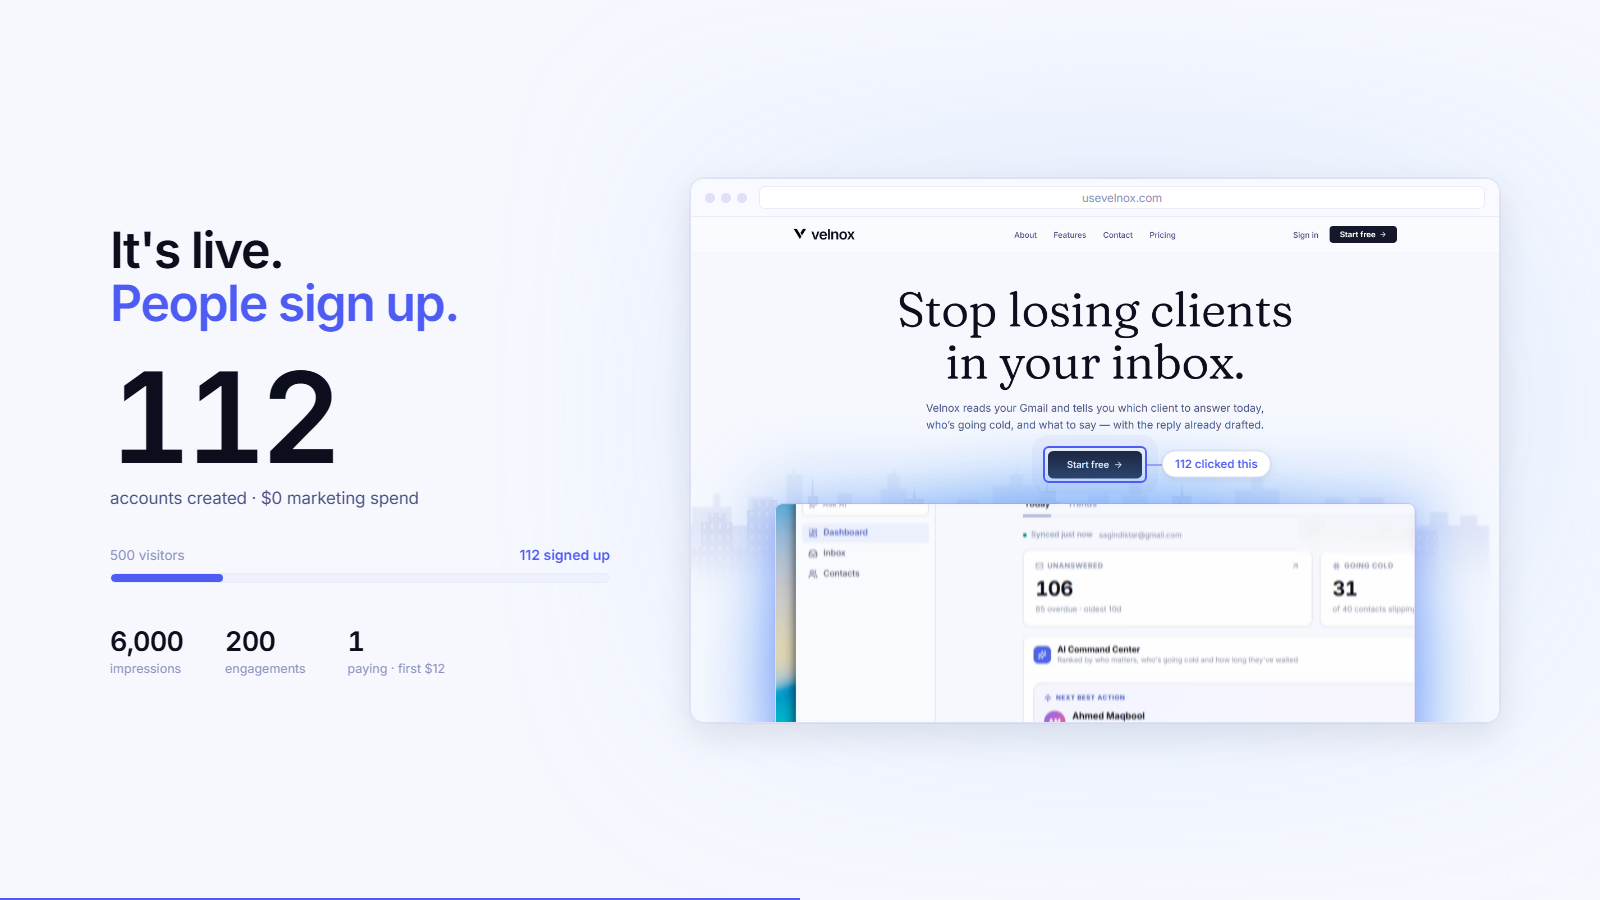
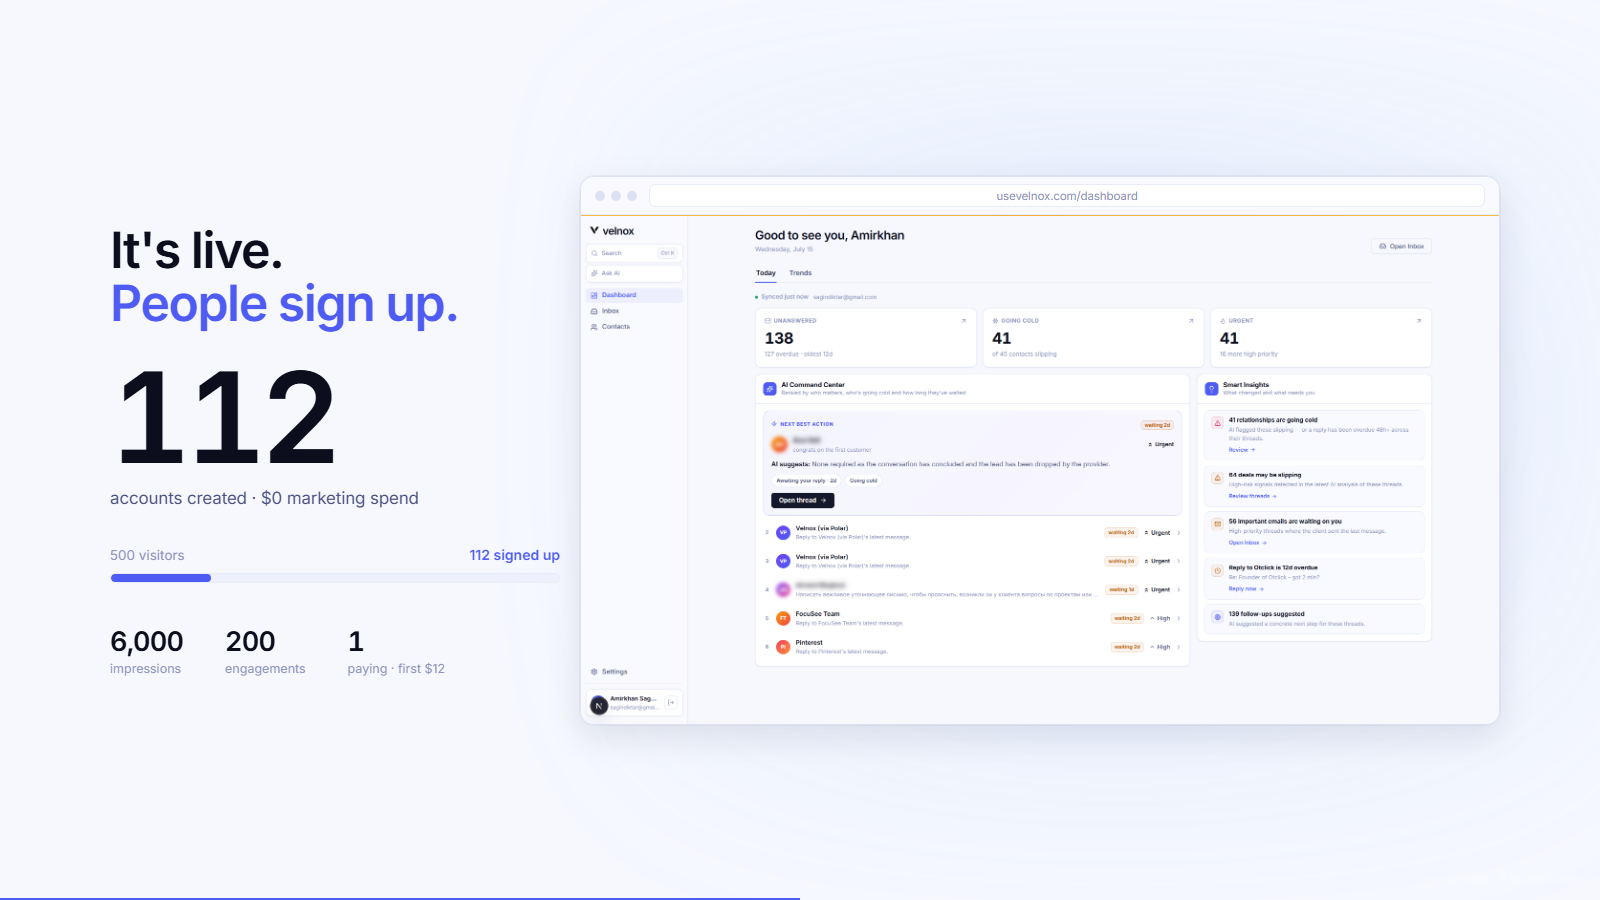
Put the dashboard on slide 3; narrate the demo on slide 4
Slide 1 is restored. Deduplicating slides 1 and 3 by rebuilding the title card
was the wrong end to fix: the title card was fine, and the rerun was slide 3
spending its picture on the landing hero the room had already looked at. Slide 3
now shows the dashboard instead — the thing the 112 actually signed up for,
running on a real mailbox, with the same 127 overdue in its UNANSWERED card that
slide 2 claims. It gets 920px (the numbers column can spare it) because the
dashboard is a denser image than the landing page was; the three headline stats
still read at that size and the rest is meant to be texture. The landing shot
and its annotation ring are gone with it — the ring pointed at a CTA that is no
longer on the slide.

Slide 4 keeps its recording and gains what it was missing. Thirty seconds, four
acts, no narration: a caption now names the act and a rule shows what is left,
both driven off the video's own currentTime so they cannot drift from it. Cue
points are read off the capture — dashboard to ~4s, inbox and threads to ~16s,
the assistant to ~24s, drafting to the end.

The video is 1140 wide now, not 1180: the caption needed room and at 1180 it sat
16px off the bottom edge. That moves the scene, so build-pptx.js's SCENE is
re-measured to match (230, 112.39, 1140x684.02, animations settled) — those two
numbers have to move together or the PowerPoint overlay lands off its frame.

Verified: validate.py passes and PowerPoint's own render of slide 4 differs from
[…]

diff --git a/deck/index.html b/deck/index.html
@@ -281,7 +281,7 @@ html, body {
 /* 112 of 500 is a genuinely nested ratio, so the bar can state it without
    inflating anything. It fills on slide entry — the one number worth watching
    arrive. */
-.conv { margin-top: 38px; width: 500px; }
+.conv { margin-top: 38px; width: 450px; }
 .conv-head { display: flex; justify-content: space-between; align-items: baseline; font-size: 13.5px; margin-bottom: 10px; }
 .conv-head span { color: var(--text-muted); }
 .conv-head b { font-weight: 600; color: var(--accent); font-size: 14px; }
@@ -303,59 +303,26 @@ html, body {
 .minor .v { font-size: 27px; font-weight: 600; letter-spacing: -0.03em; font-variant-numeric: tabular-nums; }
 .minor .k { font-size: 12.5px; color: var(--text-muted); margin-top: 3px; }
 
-/* The real landing page in real browser chrome — the brief's "realistic browser
-   frame". This is the page the 500 visitors actually saw, so it belongs on the
-   traction slide rather than a product one. Shot from production at 2×.
-   Sized to sit entirely inside the stage: 810 wide → 506 of image + 38 of bar =
-   544, centred at y=178. An earlier cut ran it off the right edge as a bleed and
-   it just read as broken, which is the only vote that counts. */
+/* The real product in real browser chrome — the brief's "realistic browser
+   frame". This showed the landing page for a while, which was a mistake: slide 1
+   already IS the landing hero, so the traction slide was spending its picture on
+   a rerun of the title card. The dashboard earns the space instead — it is the
+   thing the 112 signed up FOR, running on a real mailbox.
+   The dashboard is a denser image than the landing page was, so it takes the
+   wider frame the numbers column can spare: 920 wide → 510 of image (1920×1065)
+   + 38 of bar = 548, centred at y=176. At that width the three headline stats
+   still read, which is all that has to — the rest is texture, not text. */
 .s3-shot {
   position: absolute;
-  left: 690px; top: 178px;
-  width: 810px;
+  left: 580px; top: 176px;
+  width: 920px;
   border-radius: var(--radius-xl);
   overflow: hidden;
   border: 1px solid var(--border);
   background: var(--bg-surface);
   box-shadow: var(--shadow-xl);
 }
-
-/* The annotation. Percentages come from the live DOM, not from eyeballing the
-   PNG: the hero CTA measures left 44.16% / top 46.28% / w 11.67% / h 5.44% of
-   the 1440×900 viewport the shot was taken at, inset by 8px a side for the ring.
-   Re-measure if the landing hero ever moves. */
 .shot-body { position: relative; line-height: 0; }
-.pin {
-  position: absolute;
-  left: 43.6%; top: 45.39%; width: 12.78%; height: 7.22%;
-  border: 2px solid var(--accent);
-  border-radius: var(--radius-sm);
-  box-shadow: 0 0 0 5px rgba(79, 92, 244, 0.13);
-}
-.slide[data-active] .pin { animation: pinPulse 2.6s var(--ease) 0.5s infinite; }
-@keyframes pinPulse {
-  0%, 100% { box-shadow: 0 0 0 5px rgba(79, 92, 244, 0.13); }
-  50%      { box-shadow: 0 0 0 11px rgba(79, 92, 244, 0.05); }
-}
-.pin-line {
-  position: absolute;
-  left: 56.4%; top: 49%;
-  width: 1.9%; height: 1.5px;
-  background: var(--accent); opacity: 0.45;
-}
-.pin-tag {
-  position: absolute;
-  left: 58.3%; top: 49%;
-  transform: translateY(-50%);
-  background: var(--bg-surface);
-  border: 1px solid var(--border);
-  border-radius: 100px;
-  padding: 5px 12px;
-  font-size: 11.5px; font-weight: 600; line-height: 1.3;
-  color: var(--accent);
-  box-shadow: var(--shadow-md);
-  white-space: nowrap;
-}
 .bbar {
   height: 38px; display: flex; align-items: center; gap: 12px;
   padding: 0 14px;
@@ -373,10 +340,39 @@ html, body {
 .s3-shot img { display: block; width: 100%; }
 
 /* ═══ Slide 4 — demo ═══════════════════════════════════════════════════════ */
-#s4 { display: flex; flex-direction: column; align-items: center; padding: 54px 0 0; }
-/* 1180 keeps the scene at 737px tall (video is 0.625 × width after overscan),
-   so the whole thing lands inside the 900px stage instead of overflowing. */
-.glow-wrap { position: relative; width: 1180px; }
+#s4 { display: flex; flex-direction: column; align-items: center; padding: 40px 0 0; }
+
+/* The demo runs 30s with no narration and four distinct acts, and a room that
+   cannot tell which act it is watching is a room reading the UI instead of
+   listening. The caption names the act; the rule shows how much is left. Both
+   are driven off the video's own currentTime, so they cannot drift out of sync
+   with it — the timings below are read off the capture, not invented. */
+.vmeta { width: 1140px; margin-top: 24px; }
+.vbar {
+  height: 3px; border-radius: 100px;
+  background: var(--bg-elevated);
+  border: 1px solid var(--border-light);
+  overflow: hidden;
+}
+.vbar i { display: block; height: 100%; width: 0; background: var(--accent); border-radius: 100px; }
+.vcap {
+  display: flex; align-items: center; gap: 11px;
+  margin-top: 15px; height: 22px;
+  font-size: 17px; font-weight: 500;
+  color: var(--text-secondary);
+  letter-spacing: -0.014em;
+}
+.vcap .d {
+  width: 7px; height: 7px; border-radius: 100px;
+  background: var(--accent); flex-shrink: 0;
+}
+.vcap b { font-weight: 500; transition: opacity 0.2s var(--ease); }
+/* 1140, not 1180: the caption and its rule need room under the video, and at
+   1180 the caption landed 16px off the bottom edge. 1140 × 0.6 = 684 of scene,
+   which leaves the caption a proper margin.
+   NB deck/build-pptx.js pins the PowerPoint video overlay to this scene's
+   measured rect. Change this number and that one is wrong — re-measure. */
+.glow-wrap { position: relative; width: 1140px; }
 /* The site's own ambience — HeroMedia.tsx, verbatim. */
 .glow {
   position: absolute; inset: -13% -11% -17%;
@@ -562,24 +558,19 @@ html, body {
   <section class="slide" id="s1" data-active>
     <div class="skyline" data-sky aria-hidden="true"></div>
 
-    <!-- Logo and one sentence. Nothing else.
-
-         This slide used to be the landing hero rebuilt: a big centred Fraunces
-         two-liner over the skyline with a subtitle under it. That is precisely
-         what slide 3 shows a photograph of — same face, same centring, same
-         skyline, same subtitle slot, and even near-synonymous words ("never lose
-         a client in your Gmail" / "stop losing clients in your inbox"). The room
-         saw one composition twice and read the second as a rerun of the first.
-         So the hero belongs to slide 3, where it is evidence, and the title card
-         is now what a title card should be: who this is, and what it does. -->
     <div class="inner">
-      <div class="r brand" style="gap:26px; margin-bottom:34px; justify-content:center;">
-        <img src="../public/logo.png" alt="" width="88" height="88" />
-        <span style="font-size:104px;">velnox</span>
+      <div class="r brand" style="gap:14px; margin-bottom:44px;">
+        <img src="../public/logo.png" alt="" width="40" height="40" />
+        <span style="font-size:43px;">velnox</span>
       </div>
 
-      <p class="r" style="font-size:34px; color:var(--text-secondary); letter-spacing:-0.022em; line-height:1.4; text-wrap:balance;">
-        Never lose a client in your Gmail.
+      <h1 class="r hero-serif" style="font-size:86px; margin-bottom:26px;">
+        Never lose a client<br />in your Gmail.
+      </h1>
+
+      <p class="r" style="font-size:21px; color:var(--text-secondary); line-height:1.6; max-width:760px; margin:0 auto; text-wrap:balance;">
+        Velnox reads your Gmail and tells you which client to answer today, who's going cold,
+        and what to say — with the reply already drafted.
       </p>
     </div>
   </section>
@@ -625,7 +616,7 @@ html, body {
 
   <!-- ════ 3 · Traction ═════════════════════════════════════════════════ -->
   <section class="slide" id="s3">
-    <div style="position:relative; z-index:2; width:520px;">
+    <div style="position:relative; z-index:2; width:450px;">
       <h2 class="r display-title" style="font-size:50px; margin-bottom:32px;">
         It's live.<br /><span class="muted-tail">People sign up.</span>
       </h2>
@@ -652,18 +643,15 @@ html, body {
 
     <div class="wash" style="left:600px; right:-40px; top:60px; bottom:60px;" aria-hidden="true"></div>
 
-    <!-- The page those 500 visitors landed on, shot from production at 2×.
-         The ring sits on the real CTA they really clicked. -->
+    <!-- What the 112 signed up for: the real dashboard, on a real mailbox.
+         The 127 overdue in its UNANSWERED card is the same 127 slide 2 claims. -->
     <div class="r s3-shot">
       <div class="bbar">
         <span class="bdots"><i></i><i></i><i></i></span>
-        <span class="burl">usevelnox.com</span>
+        <span class="burl">usevelnox.com/dashboard</span>
       </div>
       <div class="shot-body">
-        <img src="shots/landing.png" alt="The Velnox landing page at usevelnox.com" />
-        <span class="pin" aria-hidden="true"></span>
-        <span class="pin-line" aria-hidden="true"></span>
-        <span class="pin-tag">112 clicked this</span>
+        <img src="shots/dashboard.png" alt="The Velnox dashboard running on the founder's own Gmail" />
       </div>
     </div>
   </section>
@@ -678,6 +666,14 @@ html, body {
       <div class="scene">
         <video id="demo" src="../public/demo.mp4" muted loop playsinline preload="auto"></video>
       </div>
+    </div>
+
+    <div class="r vmeta">
+      <div class="vbar"><i id="vprog"></i></div>
+      <p class="vcap">
+        <span class="d" aria-hidden="true"></span>
+        <b id="vcap">Ranked by who matters — not by who emailed last.</b>
+      </p>
     </div>
   </section>
 
@@ -872,6 +868,35 @@ function go(n) {
   else { video.pause(); }
 
 }
+
+/* Demo captions. Cue points are read off the capture — dashboard until ~4s, the
+   inbox and threads to ~16s, the assistant to ~24s, drafting to the end — and
+   driven off the video's own clock, so they stay honest about what is on screen
+   even if the file is re-cut and the acts move. Re-check them if it is. */
+var CUES = [
+  [0,  'Ranked by who matters — not by who emailed last.'],
+  [4,  'Every thread read, scored and explained.'],
+  [16, 'Ask it anything about your inbox.'],
+  [24, 'It drafts every overdue reply for you.']
+];
+var capEl = document.getElementById('vcap');
+var progEl = document.getElementById('vprog');
+var cueAt = -1;
+
+video.addEventListener('timeupdate', function () {
+  var d = video.duration || 30;
+  progEl.style.width = Math.min(video.currentTime / d * 100, 100) + '%';
+
+  var k = 0;
+  for (var j = 0; j < CUES.length; j++) if (video.currentTime >= CUES[j][0]) k = j;
+  if (k === cueAt) return;
+  cueAt = k;
+  capEl.style.opacity = '0';
+  setTimeout(function () {
+    capEl.textContent = CUES[k][1];
+    capEl.style.opacity = '1';
+  }, 200);
+});
 
 document.addEventListener('keydown', function (e) {
   if (e.key === 'ArrowRight' || e.key === ' ' || e.key === 'PageDown') { e.preventDefault(); go(i + 1); }

diff --git a/deck/build-pptx.js b/deck/build-pptx.js
@@ -37,7 +37,7 @@ const STAGE_H = 7.5;
 // video lands 28px below the frame drawn into the background image, showing as
 // a dark seam along the top of the demo. That is a real bug this file shipped
 // once; a pixel diff of the PowerPoint render against the HTML one caught it.
-const SCENE = { x: 210, y: 126.39, w: 1180, h: 708.02 };
+const SCENE = { x: 230, y: 112.39, w: 1140, h: 684.02 };
 
 const NOTES = {
   1: "Velnox. It reads your Gmail and tells you which client to answer today.",
